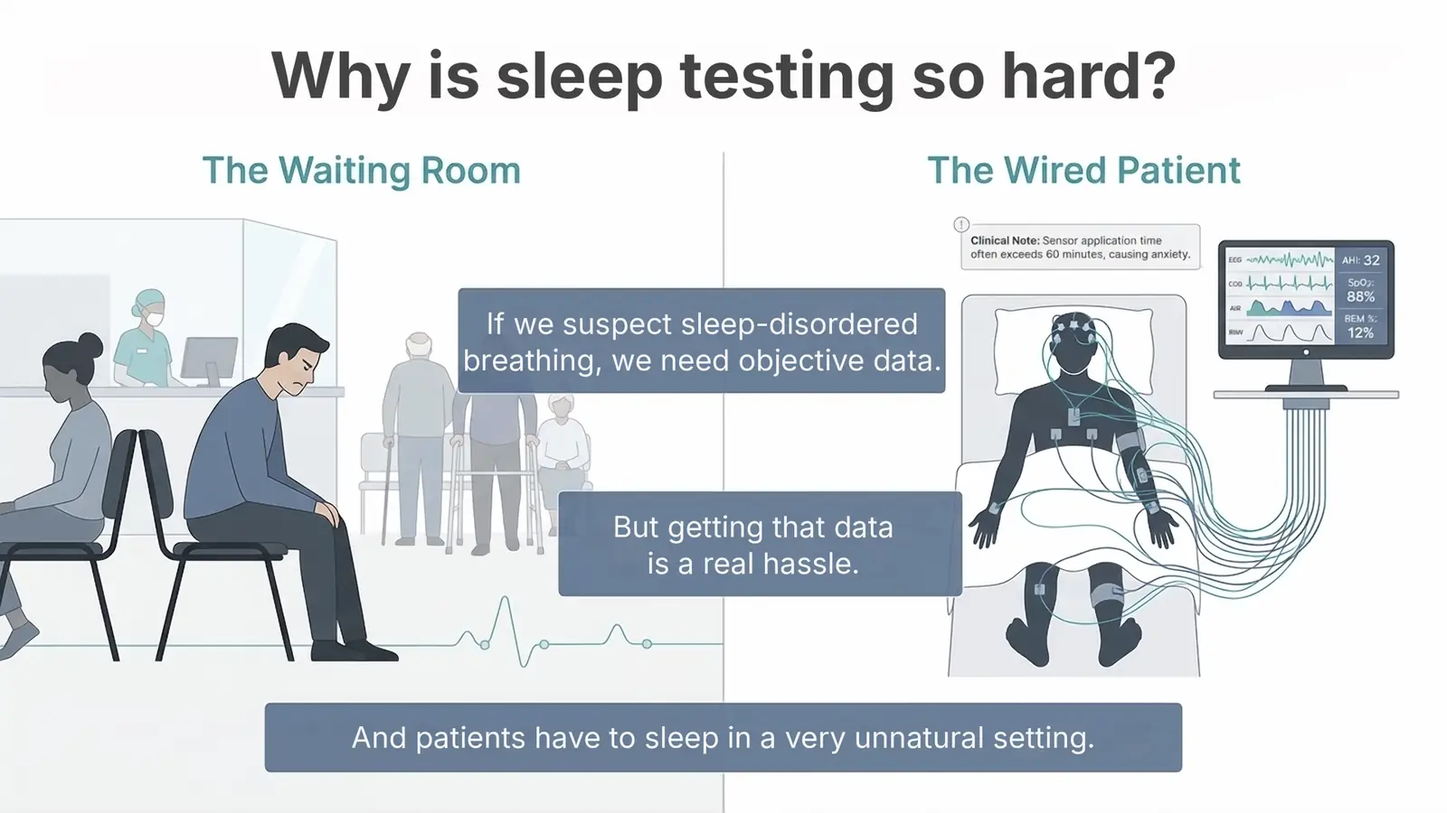
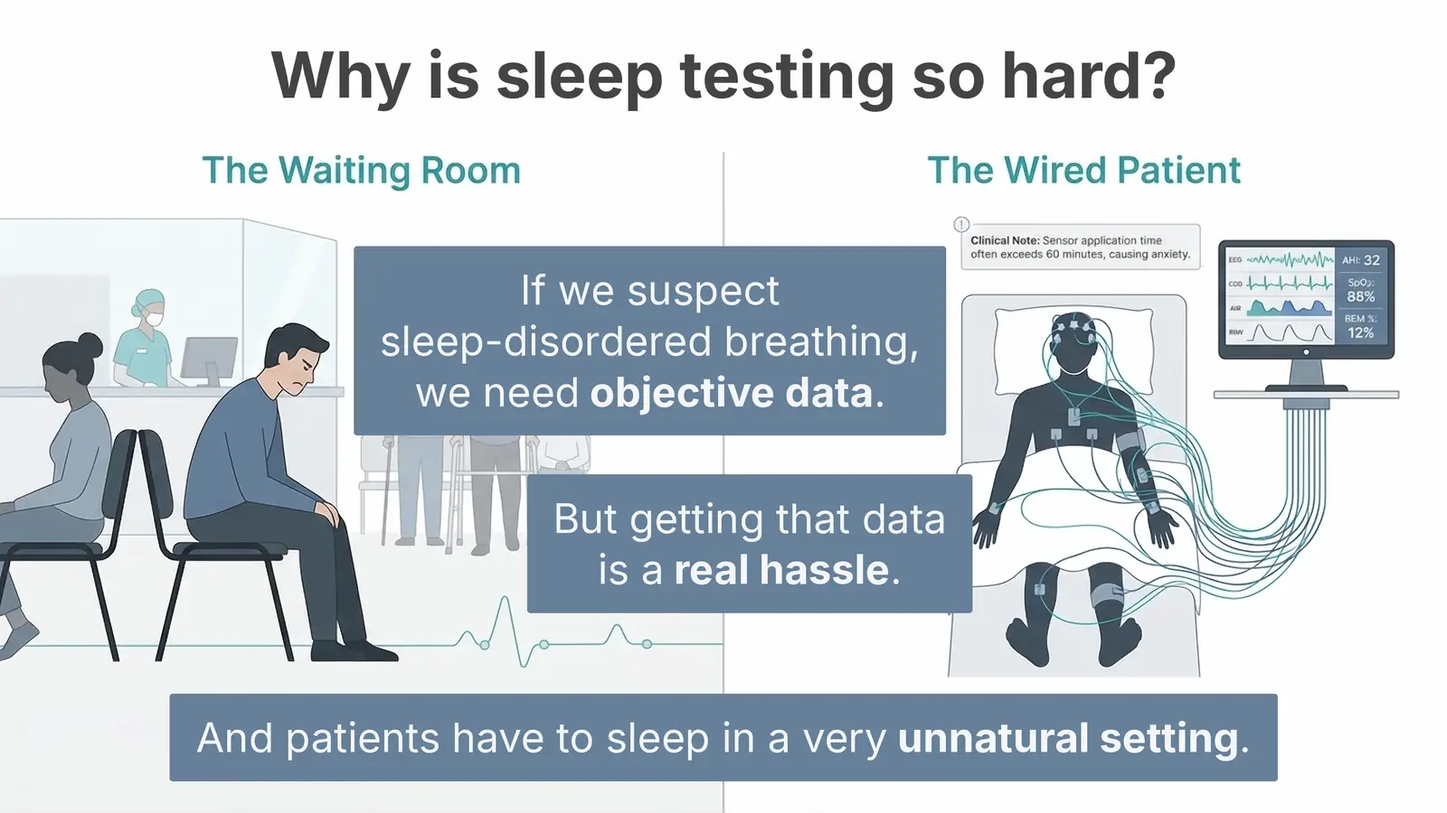
v9: slide 2 image - larger gray boxes, bold key phrases; sw gcbme-v9

diff --git a/data.js b/data.js
@@ -1,2 +1,2 @@
-window.SLIDES=[{"slide": 1, "title": "Non-wearable Devices in Sleep Medicine", "sentences": ["Good morning, everyone. Thank you for inviting me to the GCBME 2026 International Forum on Smart Healthcare.", "I'm Wen-Te Liu, from Pulmonary Medicine at Shuang Ho Hospital.", "Today I'll talk about non-wearable devices in sleep medicine: using contactless radar to check breathing during sleep."], "keywords": ["2026", "GCBME", "International", "Forum", "Smart", "Healthcare", "Pulmonary", "Medicine", "Shuang", "Hospital", "wearable", "contactless"], "seconds": 20.3, "words": 44, "image": "slides/s01.webp?v=8"}, {"slide": 2, "title": "Why is sleep testing so hard?", "sentences": ["So, why is sleep testing so hard?", "Look at the waiting room. If we suspect sleep-disordered breathing, we need objective data.", "But getting that data is a real hassle.", "Putting on the sensors often takes more than 60 minutes, and it makes patients anxious.", "And then patients have to sleep in a very unnatural setting."], "keywords": ["60", "disordered", "breathing", "objective", "patients", "unnatural"], "seconds": 25.4, "words": 55, "image": "slides/s02.webp?v=10"}, {"slide": 3, "title": "How do today's tests compare?", "sentences": ["How do today's tests compare?", "PSG covers all sleep diseases, but it needs 20 or more wires, and patients wait 1 to 2 months.", "Home sleep testing uses 3 wires. An oximeter or an ECG patch can record for 7 to 14 days.", "But they are all uncomfortable, and the patch can cause allergy.", "So we need to move past wearable sensors, to monitoring with nothing to wear, night after night."], "keywords": ["20", "PSG", "ECG", "diseases", "oximeter", "uncomfortable", "wearable", "monitoring"], "seconds": 32.8, "words": 71, "image": "slides/s03.webp?v=8"}, {"slide": 4, "title": "Wearable sensors for sleep monitoring", "sentences": ["So what do we use today? There are many wearable sensors for sleep monitoring.", "They track brain activity, heart activity, movement, respiration, and blood oxygen.", "But every one of them has to be worn on the body.", "So the question is: could non-wearables work?"], "keywords": ["wearable", "monitoring", "activity", "movement", "respiration", "wearables"], "seconds": 20.3, "words": 44, "image": "slides/s04.webp?v=8"}, {"slide": 5, "title": "Radar principle diagram", "sentences": ["Here is how the radar works.", "The radar sends a signal from Tx, and picks up the reflection at Rx.", "When the chest moves a little, the received signal changes, in its time of flight, or ToF, and its phase.", "From the changes, we rebuild the breathing signal, with no wires."], "keywords": ["reflection", "received", "breathing"], "seconds": 23.5, "words": 51, "image": "slides/s05.webp?v=9"}, {"slide": 6, "title": "Here's how it looks at the bedside", "sentences": ["Here's how it looks at the bedside.", "The radar can go on the wall above the bed, on an arm, or on a floor stand.", "Nothing touches the patient."], "keywords": [], "seconds": 13.4, "words": 29, "image": "slides/s06.webp?v=8"}, {"slide": 7, "title": "Our three published studies: sleep lab, home, and heart", "sentences": ["Our team has three published studies: in the sleep lab, at home, and on the heart.", "How it works: a 24-GHz continuous-wave radar, plus deep neural decision trees.", "In Study 1, in the sleep lab, we compared the radar side by side with PSG in 196 patients, and got a strong correlation, r = 0.91.", "In Study 2, we tested 80 patients at home, for 147 nights, with no professional needed to set it up.", "In Study 3, with 72 patients, when the radar picked up periodic breathing, it was linked to lower LVEF."], "keywords": ["24", "196", "0.91", "80", "147", "72", "GHz", "PSG", "LVEF", "Study", "published", "continuous-wave"], "seconds": 43.4, "words": 94, "image": "slides/s07.webp?v=8"}, {"slide": 8, "title": "Study 1: Testing it in the hospital", "sentences": ["Let's start with Study 1: testing it in the hospital.", "Our team published this study in 2024.", "We compared the radar with PSG in 196 patients.", "The setting was a tightly controlled lab, with no outside noise. So we get a clean baseline."], "keywords": ["2024", "196", "PSG", "Study", "hospital", "published", "compared", "patients", "controlled", "baseline"], "seconds": 19.8, "words": 43, "image": "slides/s08.webp?v=8"}, {"slide": 9, "title": "Radar turns tiny chest movements into breathing signals", "sentences": ["So how does it see breathing? The radar turns tiny chest movements into breathing signals.", "At the top, normal breathing gives a steady, regular wave.", "At the bottom is a respiratory event. During the apnea episode, the wave gets very small, and then breathing comes back."], "keywords": ["breathing", "movements", "respiratory"], "seconds": 21.2, "words": 46, "image": "slides/s09.webp?v=8"}, {"slide": 10, "title": "Sleep tests watch airflow. Radar watches the chest.", "sentences": ["Sleep tests watch airflow. Radar watches the chest.", "In standard scoring, airflow stops, or gets shallow. We only see these events when we measure airflow.", "Radar senses the chest rising and falling, not airflow. So if we read chest motion as airflow, we get blind spots.", "In an obstructive event, the patient keeps trying to breathe, but no air flows. So chest motion isn't the same as airflow.", "That's why the radar has to spot a typical pattern of chest-motion changes."], "keywords": ["Sleep", "Radar", "standard", "obstructive"], "seconds": 37.4, "words": 81, "image": "slides/s10.webp?v=8"}, {"slide": 11, "title": "How radar sees a sleep-breathing event", "sentences": ["How does radar see a sleep-breathing event? In five steps of chest-wall motion.", "First, normal breathing: the chest moves regularly.", "Then apnea onset: the movement drops sharply, or stops.", "Then struggling effort: the airway is still closed, so the chest makes small moves.", "Then a recovery surge: the airway opens, with one big breath.", "And then it goes back to normal.", "This whole sequence is the event that radar can detect."], "keywords": ["breathing", "regularly", "movement", "struggling", "recovery", "sequence"], "seconds": 32.8, "words": 71, "image": "slides/s11.webp?v=8"}, {"slide": 12, "title": "Does the radar agree with the clinical gold standard?", "sentences": ["So, does the radar agree with the clinical gold standard?", "On one side, we have the full sleep study in the hospital, PSG. On the other side, the contactless 24-GHz radar.", "We tested 196 patients, and the correlation was r = 0.91."], "keywords": ["24", "196", "0.91", "PSG", "GHz", "clinical", "standard", "hospital", "contactless", "patients", "correlation"], "seconds": 19.4, "words": 42, "image": "slides/s12.webp?v=8"}, {"slide": 13, "title": "Study 1: How accurate is it in the hospital?", "sentences": ["Study 1: how accurate is it in the hospital?", "The radar's bRDI and the AHI from PSG line up well, with r = 0.91, and p < 0.01.", "For moderate-to-severe OSA, the accuracy was 90.3%, with a cut-off of 19.2 events/h.", "For severe OSA, the accuracy was 92.4%, with a cut-off of 28.86 events/h.", "And for multi-class prediction, the average accuracy was 83.7%."], "keywords": ["0.91", "0.01", "90.3%", "19.2", "92.4%", "28.86", "83.7%", "bRDI", "AHI", "OSA", "Study", "accurate"], "seconds": 29.1, "words": 63, "image": "slides/s13.webp?v=8"}, {"slide": 14, "title": "From research to the ward: a zero-contact care platform", "sentences": ["From research to the ward: this is our zero-contact care platform. We now use the radar every day for our inpatients.", "It monitors breathing nonstop, with no contact, and it reads heart rate and bed status from the same radar signal.", "If a patient is out of bed too long, or vital signs are abnormal, staff get alerts on the dashboard and LINE Notify.", "It received the 2021 SNQ, and the 2022 NHQA, Distinctive Center for our Sleep Center."], "keywords": ["2021", "2022", "LINE", "SNQ", "NHQA", "Notify", "Distinctive", "Center", "Sleep", "research", "platform", "inpatients"], "seconds": 36.5, "words": 79, "image": "slides/s14.webp?v=8"}, {"slide": 15, "title": "Obstructive Sleep Apnea after COVID-19", "sentences": ["Next, obstructive sleep apnea after COVID-19. This is an observational study.", "The table shows sleep test results in post-COVID-19 patients.", "Out of 257 patients, only 2 were normal, with an AHI below 5.", "Mild OSA was 11.28%, moderate was 29.18%, and severe was 58.75%."], "keywords": ["257", "11.28%", "29.18%", "58.75%", "COVID", "obstructive", "observational", "patients", "moderate"], "seconds": 20.3, "words": 44, "image": "slides/s15.webp?v=8"}, {"slide": 16, "title": "Radar picks up OSA in COVID-19 patients", "sentences": ["Radar also picks up OSA in COVID-19 patients.", "From 2021/7 to 2022/7, our platform recorded 5,376 monitoring sessions.", "The lines show the percentage with RDI ≥15, ≥30, and ≥40.", "The chart runs from COVID-19 Delta in the summer of 2021, through autumn, winter and spring, to Omicron in the summer of 2022.", "These are observational data. They show trends, not a diagnosis for each patient."], "keywords": ["2021", "2022", "5,376", "15", "30", "40", "OSA", "COVID", "RDI", "Radar", "Delta", "Omicron"], "seconds": 30.0, "words": 65, "image": "slides/s16.webp?v=8"}, {"slide": 18, "title": "Does it work in real homes?", "sentences": ["Now, does it work in real homes?", "We studied 80 patients over 147 nights.", "We checked it against PSG in the hospital, and against HSAT at home. No technician was there at home.", "So we see it as a promising complement to HSAT."], "keywords": ["80", "147", "PSG", "HSAT", "patients", "hospital", "technician", "promising", "complement"], "seconds": 19.8, "words": 43, "image": "slides/s18.webp?v=8"}, {"slide": 19, "title": "Study 2: Taking it home", "sentences": ["This brings us to Study 2: taking it home.", "At home, nothing is controlled: different sleep positions, thick blankets, noise, and no technician.", "We had 80 subjects and 147 nights of home sleep, with no staff on site.", "We compared the radar with home sleep apnea testing, or HSAT.", "Real homes are messy, so we need robust signal processing."], "keywords": ["80", "147", "HSAT", "Study", "controlled", "different", "positions", "blankets", "technician", "subjects", "compared", "processing"], "seconds": 27.2, "words": 59, "image": "slides/s19.webp?v=8"}, {"slide": 20, "title": "Study 2: How well does it work at home?", "sentences": ["Study 2: how well does it work at home?", "The correlation was r = 0.87, with p < 0.01. So bRDI_TIB tracks HSAT AHI closely, even with no one supervising.", "For consistency, on average, the difference is −5.30 events/h.", "And 93.88% of nights, that's 138 of 147, fall within the ±1.96 SD limits of agreement.", "These are limits of agreement, not a confidence interval."], "keywords": ["0.87", "0.01", "5.30", "93.88%", "138", "147", "1.96", "bRDI", "HSAT", "AHI", "SD", "Study"], "seconds": 29.5, "words": 64, "image": "slides/s20.webp?v=8"}, {"slide": 21, "title": "Study 2: Grading severity at home", "sentences": ["Study 2: grading severity at home.", "For moderate-to-severe OSA, the accuracy was 83.67%, with a bRDI_TIB cut-off of 21.19 events/h.", "For severe OSA, it was 93.21%, with a cut-off of 28.14 events/h.", "For multi-class prediction, the average accuracy was 78.23%. That's better than HSAT rules alone, at 72.11%."], "keywords": ["83.67%", "21.19", "93.21%", "28.14", "78.23%", "72.11%", "OSA", "bRDI", "HSAT", "Study", "severity", "moderate-to-severe"], "seconds": 22.2, "words": 48, "image": "slides/s21.webp?v=8"}, {"slide": 22, "title": "Hospital vs. home: how do they compare?", "sentences": ["So, hospital vs. home: how do they compare?", "In Study 1, in the hospital, the correlation with PSG was r = 0.91, and severe OSA accuracy was 92.4%.", "In Study 2, in real homes with nothing controlled, the correlation with HSAT was r = 0.87, and severe OSA accuracy was 93.21%.", "So the key insight is: for severe OSA, accuracy stays above 92%, in the hospital and at home."], "keywords": ["0.91", "92.4%", "0.87", "93.21%", "92%", "PSG", "OSA", "HSAT", "Study", "hospital", "correlation", "accuracy"], "seconds": 31.8, "words": 69, "image": "slides/s22.webp?v=8"}, {"slide": 23, "title": "TFDA clearance: where we stand", "sentences": ["TFDA clearance: where we stand. The device is TFDA cleared.", "bRDI ≥ 30 is used only as a screen for suspected severe obstructive sleep apnea.", "At a cut-off of 30, the sensitivity is 90.5%, and the specificity is also 90.5%.", "Please note: this device screens for suspected severe OSA. It does not diagnose OSA on its own."], "keywords": ["30", "90.5%", "TFDA", "bRDI", "OSA", "Please", "clearance", "suspected", "obstructive", "sensitivity", "specificity", "diagnose"], "seconds": 26.3, "words": 57, "image": "slides/s23.webp?v=8"}, {"slide": 24, "title": "TFDA license document", "sentences": ["This is the TFDA license document, in Chinese.", "At a bRDI cut-off of 30, sensitivity and specificity are both 90.5%.", "Heart rate is tracked from 40–120 bpm, and sleep staging agreement is 69%."], "keywords": ["30", "90.5%", "40", "120", "69%", "TFDA", "bRDI", "document"], "seconds": 15.2, "words": 33, "image": "slides/s24.webp?v=8"}, {"slide": 25, "title": "So what does TFDA clearance mean in practice?", "sentences": ["So what does TFDA clearance mean in practice?", "The main cut-off is bRDI ≥ 30. This flags suspected severe OSA.", "Sensitivity and specificity are both 90.5%.", "It tracks heart rate from 40–120 bpm.", "And for sleep stages, the consistency is 69%.", "But keep in mind: bRDI ≥ 30 is validated as a screen for suspected severe OSA. It doesn't replace a full diagnosis."], "keywords": ["30", "90.5%", "40", "120", "69%", "TFDA", "bRDI", "OSA", "Sensitivity", "clearance", "practice", "suspected"], "seconds": 29.1, "words": 63, "image": "slides/s25.webp?v=8"}, {"slide": 26, "title": "How do we install it?", "sentences": ["How do we install it?", "Option A is a wall-mounted bracket. It's best for fixed hospital or clinic beds.", "Option B is a floor stand. It's best for homes, and it's easy to move.", "Either way, the radar is set at 75–90 cm."], "keywords": ["75", "90", "Option", "hospital"], "seconds": 19.8, "words": 43, "image": "slides/s26.webp?v=8"}, {"slide": 27, "title": "How it all works, around the clock", "sentences": ["So how does it all work, around the clock?", "The radar sends data nonstop over Wi-Fi.", "The clinical dashboard shows each patient's status, movement, and abnormal vital signs in one place.", "And with automatic Line@ app alerts, staff get an alert right away for abnormal values or bed exits."], "keywords": ["clinical", "dashboard", "movement", "abnormal", "automatic"], "seconds": 22.6, "words": 49, "image": "slides/s27.webp?v=8"}, {"slide": 28, "title": "What does daily screening data look like?", "sentences": ["What does daily screening data look like?", "The team gets a LINE Notify message from the test site.", "For each bed, it lists the bRDI, sleep time, PB%, PB events, and the average cycle length.", "On the right is the full sleep report, in Chinese."], "keywords": ["LINE", "bRDI", "PB", "Notify", "screening"], "seconds": 20.8, "words": 45, "image": "slides/s28.webp?v=8"}, {"slide": 29, "title": "Study 3: Can breathing tell us about the heart?", "sentences": ["Now, Study 3: can breathing tell us about the heart?", "This study had 72 patients, and it was published by our team in 2025.", "Here's what we found. When the radar picks up abnormal breathing, especially periodic breathing, or Cheyne-Stokes, it's linked to a lower LVEF.", "Just to be clear: this is an early-warning idea for heart failure, based on associations.", "It isn't validated yet for diagnosis or prediction."], "keywords": ["72", "2025", "LVEF", "Study", "Cheyne", "Stokes", "breathing", "published", "abnormal", "especially", "periodic", "associations"], "seconds": 31.8, "words": 69, "image": "slides/s29.webp?v=8"}, {"slide": 30, "title": "Why does a weaker heart change breathing during sleep?", "sentences": ["Why does a weaker heart change breathing during sleep?", "It comes from a feedback loop: the neural outflow, the plant gain, the circulation time, and the chemoreflex gain to CO2.", "Periodic breathing is associated with impaired cardiac function.", "Our radar does not measure CO2. It only sees the breathing pattern."], "keywords": ["CO2", "Periodic", "breathing", "circulation", "chemoreflex", "associated", "impaired", "function"], "seconds": 23.1, "words": 50, "image": "slides/s30.webp?v=8"}, {"slide": 31, "title": "Periodic-breathing features & cycle length", "sentences": ["We can measure periodic breathing by features like the cycle length and the hyperpnea length.", "When cycle length was measured by CPAP, it was 11x in acute heart failure, 8x in chronic heart failure, and 1x in a normal heart.", "And by LVEF, the cycle length goes from 49.1 seconds when LVEF is above 50, up to 85.7 seconds when LVEF is below 20."], "keywords": ["11", "49.1", "50", "85.7", "20", "CPAP", "LVEF", "features", "hyperpnea", "measured"], "seconds": 29.5, "words": 64, "image": "slides/s31.webp?v=8"}, {"slide": 32, "title": "IEEE JTEHM 2025 paper", "sentences": ["This is our paper on evaluating cardiac impairment from abnormal respiratory patterns, using wireless radar and deep learning.", "In Table 1, we split patients by LVEF: above 50%, 47 patients, and 50% or below, 25 patients.", "The table also compares LVEF, LVEDD, and LVESD between the two groups."], "keywords": ["50%", "47", "25", "LVEF", "LVEDD", "LVESD", "Table", "evaluating", "impairment", "abnormal", "respiratory", "patterns"], "seconds": 22.2, "words": 48, "image": "slides/s32.webp?v=8"}, {"slide": 33, "title": "Putting numbers on the heart–breathing links", "sentences": ["Let's put numbers on the heart–breathing links.", "Keep in mind: these are clinical associations only.", "If RDI goes up by 1/h, LVEF goes down 0.22%, and LVESD goes up 0.14 mm.", "If the PB cycle is 1 s longer, NT-proBNP goes up 158.49 pg/mL, LVEF goes down 0.21%, LVEDD goes up 0.11 mm, and LVESD goes up 0.16 mm."], "keywords": ["0.22%", "0.14", "158.49", "0.21%", "0.11", "0.16", "RDI", "LVEF", "LVESD", "PB", "NT", "LVEDD"], "seconds": 27.2, "words": 59, "image": "slides/s33.webp?v=8"}, {"slide": 34, "title": "Our ward work has won national awards", "sentences": ["Our ward work has also won national awards for our zero-contact care platform.", "In 2025, we received the NHQA, the National Healthcare Quality Award, for our zero-contact monitoring platform for inpatients.", "We also received the SNQ, the Symbol of National Quality, for our Wholehearted integrated care model."], "keywords": ["2025", "NHQA", "SNQ", "National", "Healthcare", "Quality", "Award", "Symbol", "Wholehearted", "platform", "monitoring", "integrated"], "seconds": 21.7, "words": 47, "image": "slides/s34.webp?v=8"}, {"slide": 37, "title": "What to take home", "sentences": ["So, what should you take home?", "First, it's contactless. A 24-GHz radar can monitor breathing night after night, with nothing to wear.", "Second, it's consistent with standard tests: r = 0.91 in the hospital, and r = 0.87 at home.", "Third, it's a TFDA-cleared screen for suspected severe OSA, with 90.5% sensitivity.", "Fourth, we found associations between periodic breathing and cardiac impairment. So it may help us watch the heart, too.", "And finally, our work received national quality awards: SNQ and NHQA.", "Thank you very much. I'm happy to take your questions."], "keywords": ["24", "0.91", "0.87", "90.5%", "GHz", "TFDA", "OSA", "SNQ", "NHQA", "contactless", "breathing", "consistent"], "seconds": 42.5, "words": 92, "image": "slides/s37.webp?v=8"}];
+window.SLIDES=[{"slide": 1, "title": "Non-wearable Devices in Sleep Medicine", "sentences": ["Good morning, everyone. Thank you for inviting me to the GCBME 2026 International Forum on Smart Healthcare.", "I'm Wen-Te Liu, from Pulmonary Medicine at Shuang Ho Hospital.", "Today I'll talk about non-wearable devices in sleep medicine: using contactless radar to check breathing during sleep."], "keywords": ["2026", "GCBME", "International", "Forum", "Smart", "Healthcare", "Pulmonary", "Medicine", "Shuang", "Hospital", "wearable", "contactless"], "seconds": 20.3, "words": 44, "image": "slides/s01.webp?v=8"}, {"slide": 2, "title": "Why is sleep testing so hard?", "sentences": ["So, why is sleep testing so hard?", "Look at the waiting room. If we suspect sleep-disordered breathing, we need objective data.", "But getting that data is a real hassle.", "Putting on the sensors often takes more than 60 minutes, and it makes patients anxious.", "And then patients have to sleep in a very unnatural setting."], "keywords": ["60", "disordered", "breathing", "objective", "patients", "unnatural"], "seconds": 25.4, "words": 55, "image": "slides/s02.webp?v=11"}, {"slide": 3, "title": "How do today's tests compare?", "sentences": ["How do today's tests compare?", "PSG covers all sleep diseases, but it needs 20 or more wires, and patients wait 1 to 2 months.", "Home sleep testing uses 3 wires. An oximeter or an ECG patch can record for 7 to 14 days.", "But they are all uncomfortable, and the patch can cause allergy.", "So we need to move past wearable sensors, to monitoring with nothing to wear, night after night."], "keywords": ["20", "PSG", "ECG", "diseases", "oximeter", "uncomfortable", "wearable", "monitoring"], "seconds": 32.8, "words": 71, "image": "slides/s03.webp?v=8"}, {"slide": 4, "title": "Wearable sensors for sleep monitoring", "sentences": ["So what do we use today? There are many wearable sensors for sleep monitoring.", "They track brain activity, heart activity, movement, respiration, and blood oxygen.", "But every one of them has to be worn on the body.", "So the question is: could non-wearables work?"], "keywords": ["wearable", "monitoring", "activity", "movement", "respiration", "wearables"], "seconds": 20.3, "words": 44, "image": "slides/s04.webp?v=8"}, {"slide": 5, "title": "Radar principle diagram", "sentences": ["Here is how the radar works.", "The radar sends a signal from Tx, and picks up the reflection at Rx.", "When the chest moves a little, the received signal changes, in its time of flight, or ToF, and its phase.", "From the changes, we rebuild the breathing signal, with no wires."], "keywords": ["reflection", "received", "breathing"], "seconds": 23.5, "words": 51, "image": "slides/s05.webp?v=9"}, {"slide": 6, "title": "Here's how it looks at the bedside", "sentences": ["Here's how it looks at the bedside.", "The radar can go on the wall above the bed, on an arm, or on a floor stand.", "Nothing touches the patient."], "keywords": [], "seconds": 13.4, "words": 29, "image": "slides/s06.webp?v=8"}, {"slide": 7, "title": "Our three published studies: sleep lab, home, and heart", "sentences": ["Our team has three published studies: in the sleep lab, at home, and on the heart.", "How it works: a 24-GHz continuous-wave radar, plus deep neural decision trees.", "In Study 1, in the sleep lab, we compared the radar side by side with PSG in 196 patients, and got a strong correlation, r = 0.91.", "In Study 2, we tested 80 patients at home, for 147 nights, with no professional needed to set it up.", "In Study 3, with 72 patients, when the radar picked up periodic breathing, it was linked to lower LVEF."], "keywords": ["24", "196", "0.91", "80", "147", "72", "GHz", "PSG", "LVEF", "Study", "published", "continuous-wave"], "seconds": 43.4, "words": 94, "image": "slides/s07.webp?v=8"}, {"slide": 8, "title": "Study 1: Testing it in the hospital", "sentences": ["Let's start with Study 1: testing it in the hospital.", "Our team published this study in 2024.", "We compared the radar with PSG in 196 patients.", "The setting was a tightly controlled lab, with no outside noise. So we get a clean baseline."], "keywords": ["2024", "196", "PSG", "Study", "hospital", "published", "compared", "patients", "controlled", "baseline"], "seconds": 19.8, "words": 43, "image": "slides/s08.webp?v=8"}, {"slide": 9, "title": "Radar turns tiny chest movements into breathing signals", "sentences": ["So how does it see breathing? The radar turns tiny chest movements into breathing signals.", "At the top, normal breathing gives a steady, regular wave.", "At the bottom is a respiratory event. During the apnea episode, the wave gets very small, and then breathing comes back."], "keywords": ["breathing", "movements", "respiratory"], "seconds": 21.2, "words": 46, "image": "slides/s09.webp?v=8"}, {"slide": 10, "title": "Sleep tests watch airflow. Radar watches the chest.", "sentences": ["Sleep tests watch airflow. Radar watches the chest.", "In standard scoring, airflow stops, or gets shallow. We only see these events when we measure airflow.", "Radar senses the chest rising and falling, not airflow. So if we read chest motion as airflow, we get blind spots.", "In an obstructive event, the patient keeps trying to breathe, but no air flows. So chest motion isn't the same as airflow.", "That's why the radar has to spot a typical pattern of chest-motion changes."], "keywords": ["Sleep", "Radar", "standard", "obstructive"], "seconds": 37.4, "words": 81, "image": "slides/s10.webp?v=8"}, {"slide": 11, "title": "How radar sees a sleep-breathing event", "sentences": ["How does radar see a sleep-breathing event? In five steps of chest-wall motion.", "First, normal breathing: the chest moves regularly.", "Then apnea onset: the movement drops sharply, or stops.", "Then struggling effort: the airway is still closed, so the chest makes small moves.", "Then a recovery surge: the airway opens, with one big breath.", "And then it goes back to normal.", "This whole sequence is the event that radar can detect."], "keywords": ["breathing", "regularly", "movement", "struggling", "recovery", "sequence"], "seconds": 32.8, "words": 71, "image": "slides/s11.webp?v=8"}, {"slide": 12, "title": "Does the radar agree with the clinical gold standard?", "sentences": ["So, does the radar agree with the clinical gold standard?", "On one side, we have the full sleep study in the hospital, PSG. On the other side, the contactless 24-GHz radar.", "We tested 196 patients, and the correlation was r = 0.91."], "keywords": ["24", "196", "0.91", "PSG", "GHz", "clinical", "standard", "hospital", "contactless", "patients", "correlation"], "seconds": 19.4, "words": 42, "image": "slides/s12.webp?v=8"}, {"slide": 13, "title": "Study 1: How accurate is it in the hospital?", "sentences": ["Study 1: how accurate is it in the hospital?", "The radar's bRDI and the AHI from PSG line up well, with r = 0.91, and p < 0.01.", "For moderate-to-severe OSA, the accuracy was 90.3%, with a cut-off of 19.2 events/h.", "For severe OSA, the accuracy was 92.4%, with a cut-off of 28.86 events/h.", "And for multi-class prediction, the average accuracy was 83.7%."], "keywords": ["0.91", "0.01", "90.3%", "19.2", "92.4%", "28.86", "83.7%", "bRDI", "AHI", "OSA", "Study", "accurate"], "seconds": 29.1, "words": 63, "image": "slides/s13.webp?v=8"}, {"slide": 14, "title": "From research to the ward: a zero-contact care platform", "sentences": ["From research to the ward: this is our zero-contact care platform. We now use the radar every day for our inpatients.", "It monitors breathing nonstop, with no contact, and it reads heart rate and bed status from the same radar signal.", "If a patient is out of bed too long, or vital signs are abnormal, staff get alerts on the dashboard and LINE Notify.", "It received the 2021 SNQ, and the 2022 NHQA, Distinctive Center for our Sleep Center."], "keywords": ["2021", "2022", "LINE", "SNQ", "NHQA", "Notify", "Distinctive", "Center", "Sleep", "research", "platform", "inpatients"], "seconds": 36.5, "words": 79, "image": "slides/s14.webp?v=8"}, {"slide": 15, "title": "Obstructive Sleep Apnea after COVID-19", "sentences": ["Next, obstructive sleep apnea after COVID-19. This is an observational study.", "The table shows sleep test results in post-COVID-19 patients.", "Out of 257 patients, only 2 were normal, with an AHI below 5.", "Mild OSA was 11.28%, moderate was 29.18%, and severe was 58.75%."], "keywords": ["257", "11.28%", "29.18%", "58.75%", "COVID", "obstructive", "observational", "patients", "moderate"], "seconds": 20.3, "words": 44, "image": "slides/s15.webp?v=8"}, {"slide": 16, "title": "Radar picks up OSA in COVID-19 patients", "sentences": ["Radar also picks up OSA in COVID-19 patients.", "From 2021/7 to 2022/7, our platform recorded 5,376 monitoring sessions.", "The lines show the percentage with RDI ≥15, ≥30, and ≥40.", "The chart runs from COVID-19 Delta in the summer of 2021, through autumn, winter and spring, to Omicron in the summer of 2022.", "These are observational data. They show trends, not a diagnosis for each patient."], "keywords": ["2021", "2022", "5,376", "15", "30", "40", "OSA", "COVID", "RDI", "Radar", "Delta", "Omicron"], "seconds": 30.0, "words": 65, "image": "slides/s16.webp?v=8"}, {"slide": 18, "title": "Does it work in real homes?", "sentences": ["Now, does it work in real homes?", "We studied 80 patients over 147 nights.", "We checked it against PSG in the hospital, and against HSAT at home. No technician was there at home.", "So we see it as a promising complement to HSAT."], "keywords": ["80", "147", "PSG", "HSAT", "patients", "hospital", "technician", "promising", "complement"], "seconds": 19.8, "words": 43, "image": "slides/s18.webp?v=8"}, {"slide": 19, "title": "Study 2: Taking it home", "sentences": ["This brings us to Study 2: taking it home.", "At home, nothing is controlled: different sleep positions, thick blankets, noise, and no technician.", "We had 80 subjects and 147 nights of home sleep, with no staff on site.", "We compared the radar with home sleep apnea testing, or HSAT.", "Real homes are messy, so we need robust signal processing."], "keywords": ["80", "147", "HSAT", "Study", "controlled", "different", "positions", "blankets", "technician", "subjects", "compared", "processing"], "seconds": 27.2, "words": 59, "image": "slides/s19.webp?v=8"}, {"slide": 20, "title": "Study 2: How well does it work at home?", "sentences": ["Study 2: how well does it work at home?", "The correlation was r = 0.87, with p < 0.01. So bRDI_TIB tracks HSAT AHI closely, even with no one supervising.", "For consistency, on average, the difference is −5.30 events/h.", "And 93.88% of nights, that's 138 of 147, fall within the ±1.96 SD limits of agreement.", "These are limits of agreement, not a confidence interval."], "keywords": ["0.87", "0.01", "5.30", "93.88%", "138", "147", "1.96", "bRDI", "HSAT", "AHI", "SD", "Study"], "seconds": 29.5, "words": 64, "image": "slides/s20.webp?v=8"}, {"slide": 21, "title": "Study 2: Grading severity at home", "sentences": ["Study 2: grading severity at home.", "For moderate-to-severe OSA, the accuracy was 83.67%, with a bRDI_TIB cut-off of 21.19 events/h.", "For severe OSA, it was 93.21%, with a cut-off of 28.14 events/h.", "For multi-class prediction, the average accuracy was 78.23%. That's better than HSAT rules alone, at 72.11%."], "keywords": ["83.67%", "21.19", "93.21%", "28.14", "78.23%", "72.11%", "OSA", "bRDI", "HSAT", "Study", "severity", "moderate-to-severe"], "seconds": 22.2, "words": 48, "image": "slides/s21.webp?v=8"}, {"slide": 22, "title": "Hospital vs. home: how do they compare?", "sentences": ["So, hospital vs. home: how do they compare?", "In Study 1, in the hospital, the correlation with PSG was r = 0.91, and severe OSA accuracy was 92.4%.", "In Study 2, in real homes with nothing controlled, the correlation with HSAT was r = 0.87, and severe OSA accuracy was 93.21%.", "So the key insight is: for severe OSA, accuracy stays above 92%, in the hospital and at home."], "keywords": ["0.91", "92.4%", "0.87", "93.21%", "92%", "PSG", "OSA", "HSAT", "Study", "hospital", "correlation", "accuracy"], "seconds": 31.8, "words": 69, "image": "slides/s22.webp?v=8"}, {"slide": 23, "title": "TFDA clearance: where we stand", "sentences": ["TFDA clearance: where we stand. The device is TFDA cleared.", "bRDI ≥ 30 is used only as a screen for suspected severe obstructive sleep apnea.", "At a cut-off of 30, the sensitivity is 90.5%, and the specificity is also 90.5%.", "Please note: this device screens for suspected severe OSA. It does not diagnose OSA on its own."], "keywords": ["30", "90.5%", "TFDA", "bRDI", "OSA", "Please", "clearance", "suspected", "obstructive", "sensitivity", "specificity", "diagnose"], "seconds": 26.3, "words": 57, "image": "slides/s23.webp?v=8"}, {"slide": 24, "title": "TFDA license document", "sentences": ["This is the TFDA license document, in Chinese.", "At a bRDI cut-off of 30, sensitivity and specificity are both 90.5%.", "Heart rate is tracked from 40–120 bpm, and sleep staging agreement is 69%."], "keywords": ["30", "90.5%", "40", "120", "69%", "TFDA", "bRDI", "document"], "seconds": 15.2, "words": 33, "image": "slides/s24.webp?v=8"}, {"slide": 25, "title": "So what does TFDA clearance mean in practice?", "sentences": ["So what does TFDA clearance mean in practice?", "The main cut-off is bRDI ≥ 30. This flags suspected severe OSA.", "Sensitivity and specificity are both 90.5%.", "It tracks heart rate from 40–120 bpm.", "And for sleep stages, the consistency is 69%.", "But keep in mind: bRDI ≥ 30 is validated as a screen for suspected severe OSA. It doesn't replace a full diagnosis."], "keywords": ["30", "90.5%", "40", "120", "69%", "TFDA", "bRDI", "OSA", "Sensitivity", "clearance", "practice", "suspected"], "seconds": 29.1, "words": 63, "image": "slides/s25.webp?v=8"}, {"slide": 26, "title": "How do we install it?", "sentences": ["How do we install it?", "Option A is a wall-mounted bracket. It's best for fixed hospital or clinic beds.", "Option B is a floor stand. It's best for homes, and it's easy to move.", "Either way, the radar is set at 75–90 cm."], "keywords": ["75", "90", "Option", "hospital"], "seconds": 19.8, "words": 43, "image": "slides/s26.webp?v=8"}, {"slide": 27, "title": "How it all works, around the clock", "sentences": ["So how does it all work, around the clock?", "The radar sends data nonstop over Wi-Fi.", "The clinical dashboard shows each patient's status, movement, and abnormal vital signs in one place.", "And with automatic Line@ app alerts, staff get an alert right away for abnormal values or bed exits."], "keywords": ["clinical", "dashboard", "movement", "abnormal", "automatic"], "seconds": 22.6, "words": 49, "image": "slides/s27.webp?v=8"}, {"slide": 28, "title": "What does daily screening data look like?", "sentences": ["What does daily screening data look like?", "The team gets a LINE Notify message from the test site.", "For each bed, it lists the bRDI, sleep time, PB%, PB events, and the average cycle length.", "On the right is the full sleep report, in Chinese."], "keywords": ["LINE", "bRDI", "PB", "Notify", "screening"], "seconds": 20.8, "words": 45, "image": "slides/s28.webp?v=8"}, {"slide": 29, "title": "Study 3: Can breathing tell us about the heart?", "sentences": ["Now, Study 3: can breathing tell us about the heart?", "This study had 72 patients, and it was published by our team in 2025.", "Here's what we found. When the radar picks up abnormal breathing, especially periodic breathing, or Cheyne-Stokes, it's linked to a lower LVEF.", "Just to be clear: this is an early-warning idea for heart failure, based on associations.", "It isn't validated yet for diagnosis or prediction."], "keywords": ["72", "2025", "LVEF", "Study", "Cheyne", "Stokes", "breathing", "published", "abnormal", "especially", "periodic", "associations"], "seconds": 31.8, "words": 69, "image": "slides/s29.webp?v=8"}, {"slide": 30, "title": "Why does a weaker heart change breathing during sleep?", "sentences": ["Why does a weaker heart change breathing during sleep?", "It comes from a feedback loop: the neural outflow, the plant gain, the circulation time, and the chemoreflex gain to CO2.", "Periodic breathing is associated with impaired cardiac function.", "Our radar does not measure CO2. It only sees the breathing pattern."], "keywords": ["CO2", "Periodic", "breathing", "circulation", "chemoreflex", "associated", "impaired", "function"], "seconds": 23.1, "words": 50, "image": "slides/s30.webp?v=8"}, {"slide": 31, "title": "Periodic-breathing features & cycle length", "sentences": ["We can measure periodic breathing by features like the cycle length and the hyperpnea length.", "When cycle length was measured by CPAP, it was 11x in acute heart failure, 8x in chronic heart failure, and 1x in a normal heart.", "And by LVEF, the cycle length goes from 49.1 seconds when LVEF is above 50, up to 85.7 seconds when LVEF is below 20."], "keywords": ["11", "49.1", "50", "85.7", "20", "CPAP", "LVEF", "features", "hyperpnea", "measured"], "seconds": 29.5, "words": 64, "image": "slides/s31.webp?v=8"}, {"slide": 32, "title": "IEEE JTEHM 2025 paper", "sentences": ["This is our paper on evaluating cardiac impairment from abnormal respiratory patterns, using wireless radar and deep learning.", "In Table 1, we split patients by LVEF: above 50%, 47 patients, and 50% or below, 25 patients.", "The table also compares LVEF, LVEDD, and LVESD between the two groups."], "keywords": ["50%", "47", "25", "LVEF", "LVEDD", "LVESD", "Table", "evaluating", "impairment", "abnormal", "respiratory", "patterns"], "seconds": 22.2, "words": 48, "image": "slides/s32.webp?v=8"}, {"slide": 33, "title": "Putting numbers on the heart–breathing links", "sentences": ["Let's put numbers on the heart–breathing links.", "Keep in mind: these are clinical associations only.", "If RDI goes up by 1/h, LVEF goes down 0.22%, and LVESD goes up 0.14 mm.", "If the PB cycle is 1 s longer, NT-proBNP goes up 158.49 pg/mL, LVEF goes down 0.21%, LVEDD goes up 0.11 mm, and LVESD goes up 0.16 mm."], "keywords": ["0.22%", "0.14", "158.49", "0.21%", "0.11", "0.16", "RDI", "LVEF", "LVESD", "PB", "NT", "LVEDD"], "seconds": 27.2, "words": 59, "image": "slides/s33.webp?v=8"}, {"slide": 34, "title": "Our ward work has won national awards", "sentences": ["Our ward work has also won national awards for our zero-contact care platform.", "In 2025, we received the NHQA, the National Healthcare Quality Award, for our zero-contact monitoring platform for inpatients.", "We also received the SNQ, the Symbol of National Quality, for our Wholehearted integrated care model."], "keywords": ["2025", "NHQA", "SNQ", "National", "Healthcare", "Quality", "Award", "Symbol", "Wholehearted", "platform", "monitoring", "integrated"], "seconds": 21.7, "words": 47, "image": "slides/s34.webp?v=8"}, {"slide": 37, "title": "What to take home", "sentences": ["So, what should you take home?", "First, it's contactless. A 24-GHz radar can monitor breathing night after night, with nothing to wear.", "Second, it's consistent with standard tests: r = 0.91 in the hospital, and r = 0.87 at home.", "Third, it's a TFDA-cleared screen for suspected severe OSA, with 90.5% sensitivity.", "Fourth, we found associations between periodic breathing and cardiac impairment. So it may help us watch the heart, too.", "And finally, our work received national quality awards: SNQ and NHQA.", "Thank you very much. I'm happy to take your questions."], "keywords": ["24", "0.91", "0.87", "90.5%", "GHz", "TFDA", "OSA", "SNQ", "NHQA", "contactless", "breathing", "consistent"], "seconds": 42.5, "words": 92, "image": "slides/s37.webp?v=8"}];
 window.QA=[{"q": "Does the radar measure oxygen saturation or CO2?", "a": "No. The radar senses chest-wall motion only. It derives breathing, heart rate and bed status; it does not measure SpO2 or CO2. Oximetry and CO2 values come from other devices."}, {"q": "How does the radar handle obstructive events, when the chest keeps moving?", "a": "It does not look for a flat line. It looks for the whole five-phase sequence: amplitude drops or stops, small struggling movements while the airway is closed, one large recovery surge, then return to normal."}, {"q": "What were the hospital results?", "a": "In 196 patients against PSG: correlation 0.91, 90.3% accuracy for moderate-to-severe OSA at a cut-off of 19.2 events per hour, 92.4% for severe OSA at 28.86, and 83.7% average accuracy for four-class prediction."}, {"q": "How did it perform at home?", "a": "In 80 patients over 147 nights against HSAT: r = 0.87; 83.67% accuracy for moderate-to-severe OSA and 93.21% for severe OSA; mean difference −5.30 events per hour, with 93.88% of nights within the ±1.96 SD limits of agreement."}, {"q": "Is the Bland–Altman band a confidence interval?", "a": "No. It shows limits of agreement, from −23.65 to +13.06 events per hour around a mean difference of −5.30. It describes agreement between individual nights, not uncertainty in the mean."}, {"q": "Can the radar replace polysomnography?", "a": "No. The TFDA clearance is for screening: a bRDI of 30 or more flags suspected severe OSA, with 90.5% sensitivity and 90.5% specificity. It is not a standalone diagnostic device, and PSG remains the reference standard."}, {"q": "Can the radar predict heart failure?", "a": "Not yet. In 72 patients, periodic breathing and cycle length were associated with lower LVEF and higher NT-proBNP. These are associations only, and the early-warning model is not a validated diagnostic or predictive tool."}, {"q": "What about blankets, sleep position or a bed partner?", "a": "The home study ran with real-world variables: different sleep positions, thick blankets, environmental noise and no technician, which is why robust signal processing is needed. The deck does not report bed-partner data, so I would not claim performance there."}, {"q": "How is it installed, and what does the care team see?", "a": "It uses a wall-mounted bracket or a floor stand at 75 to 90 cm. Data stream over Wi-Fi to a dashboard, and LINE notifications flag prolonged bed exit or abnormal values. Each morning the care team gets a summary of bRDI, sleep time and periodic breathing per bed."}, {"q": "How accurate is sleep staging?", "a": "The TFDA-labeled overall sleep-staging agreement is 69%. That is useful as context, but it is clearly below what we see for breathing events, so we present the radar mainly as a breathing screen."}];

diff --git a/sw.js b/sw.js
@@ -1,4 +1,4 @@
-const V='gcbme-v8';const FILES=["./", "index.html", "style.css", "app.js", "align.js", "data.js", "kp.js", "voice.js", "kpscore.js", "levels.json", "manifest.webmanifest", "icon-192.png", "slides/s01.webp?v=8", "slides/s02.webp?v=10", "slides/s03.webp?v=8", "slides/s04.webp?v=8", "slides/s05.webp?v=9", "slides/s06.webp?v=8", "slides/s07.webp?v=8", "slides/s08.webp?v=8", "slides/s09.webp?v=8", "slides/s10.webp?v=8", "slides/s11.webp?v=8", "slides/s12.webp?v=8", "slides/s13.webp?v=8", "slides/s14.webp?v=8", "slides/s15.webp?v=8", "slides/s16.webp?v=8", "slides/s18.webp?v=8", "slides/s19.webp?v=8", "slides/s20.webp?v=8", "slides/s21.webp?v=8", "slides/s22.webp?v=8", "slides/s23.webp?v=8", "slides/s24.webp?v=8", "slides/s25.webp?v=8", "slides/s26.webp?v=8", "slides/s27.webp?v=8", "slides/s28.webp?v=8", "slides/s29.webp?v=8", "slides/s30.webp?v=8", "slides/s31.webp?v=8", "slides/s32.webp?v=8", "slides/s33.webp?v=8", "slides/s34.webp?v=8", "slides/s37.webp?v=8"];
+const V='gcbme-v9';const FILES=["./", "index.html", "style.css", "app.js", "align.js", "data.js", "kp.js", "voice.js", "kpscore.js", "levels.json", "manifest.webmanifest", "icon-192.png", "slides/s01.webp?v=8", "slides/s02.webp?v=11", "slides/s03.webp?v=8", "slides/s04.webp?v=8", "slides/s05.webp?v=9", "slides/s06.webp?v=8", "slides/s07.webp?v=8", "slides/s08.webp?v=8", "slides/s09.webp?v=8", "slides/s10.webp?v=8", "slides/s11.webp?v=8", "slides/s12.webp?v=8", "slides/s13.webp?v=8", "slides/s14.webp?v=8", "slides/s15.webp?v=8", "slides/s16.webp?v=8", "slides/s18.webp?v=8", "slides/s19.webp?v=8", "slides/s20.webp?v=8", "slides/s21.webp?v=8", "slides/s22.webp?v=8", "slides/s23.webp?v=8", "slides/s24.webp?v=8", "slides/s25.webp?v=8", "slides/s26.webp?v=8", "slides/s27.webp?v=8", "slides/s28.webp?v=8", "slides/s29.webp?v=8", "slides/s30.webp?v=8", "slides/s31.webp?v=8", "slides/s32.webp?v=8", "slides/s33.webp?v=8", "slides/s34.webp?v=8", "slides/s37.webp?v=8"];
 self.addEventListener('install',e=>{e.waitUntil(caches.open(V).then(c=>c.addAll(FILES)).then(()=>self.skipWaiting()))});
 self.addEventListener('activate',e=>{e.waitUntil(caches.keys().then(ks=>Promise.all(ks.filter(k=>k!==V).map(k=>caches.delete(k)))).then(()=>self.clients.claim()))});
 // network-first for code (so updates show up), cache-first for images
